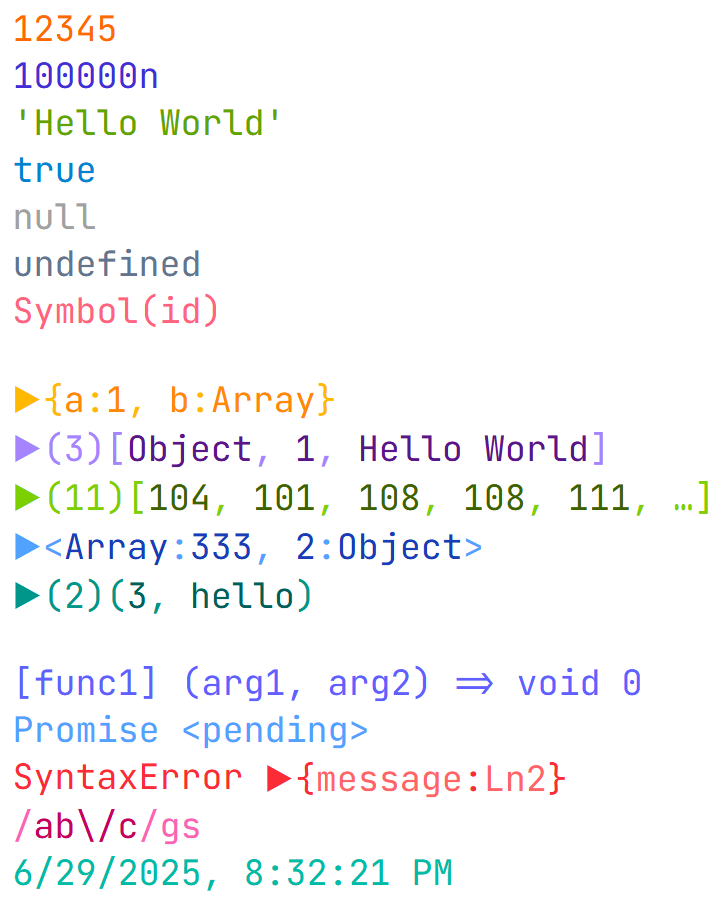
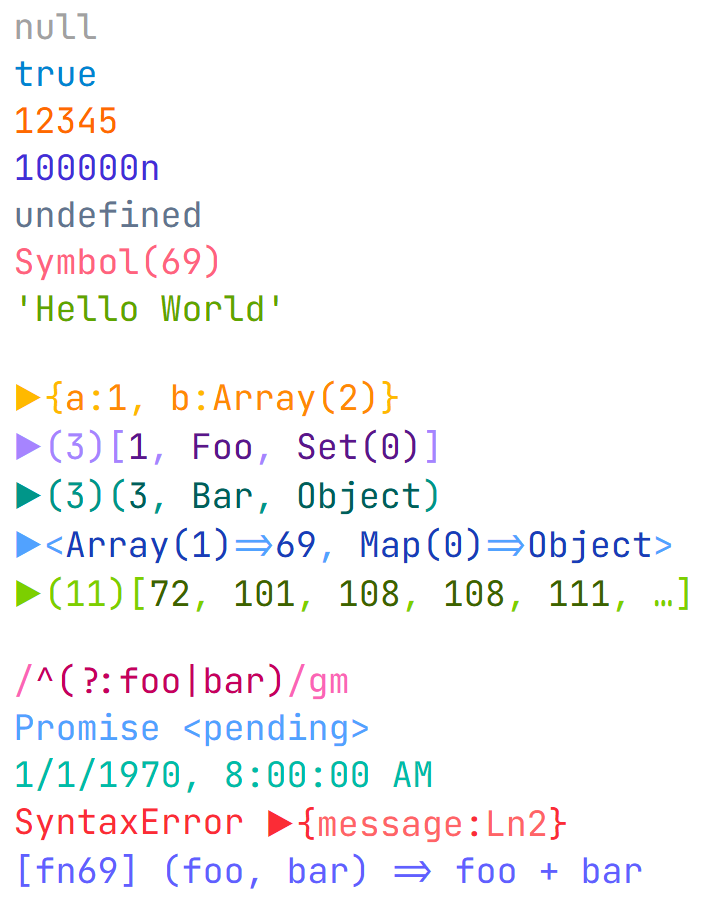
v1.2.2 list-like patches

diff --git a/src/components/templates/object-like.template.tsx b/src/components/templates/object-like.template.tsx
@@ -1,28 +1,29 @@
 import { Component, createSignal, For, Show } from "solid-js";
 import { css } from "solid-styled-components";
 import { map } from "../../modules/mapper";
-import { getPreview } from "../../utils/get-preview";
+import { preview } from "../../utils/preview";
 import { O } from "../common";
 
 export const ObjectLike: Component<{
 	entries: Iterable<[unknown, unknown]>;
 	preview: number;
 
-	bracket: string;
-	themeColor: string;
-	previewColor: string;
+	paren?: string;
+	arrow?: string;
+	pColor: string;
+	sColor: string;
 
-	collection?: boolean;
+	list?: boolean;
 }> = (props) => {
 	const entries = Array.from(props.entries);
 	const length = entries.length;
-	const empty = length === 0;
+	const isEmpty = length === 0;
 
 	const [isPreview, setPreview] = createSignal(true);
 
 	return (
-		<O color={props.themeColor}>
-			<Show when={!empty}>
+		<O color={props.pColor}>
+			<Show when={!isEmpty}>
 				<span
 					onclick={() => setPreview((preview) => !preview)}
 					class={css`
@@ -40,69 +41,94 @@ export const ObjectLike: Component<{
 				</span>
 			</Show>
 
-			<Show when={props.collection}>{`(${length.toFixed()})`}</Show>
+			<Show when={props.list}>{`(${length.toFixed()})`}</Show>
 
-			{props.bracket[0]}
+			{props.paren?.[0] ?? "{"}
 
-			<Show when={!isPreview() && !empty}>
+			{/* check what is this for */}
+			<Show when={!isPreview() && !isEmpty}>
 				<br></br>
 			</Show>
 
 			<For each={isPreview() ? entries.slice(0, props.preview) : entries}>
-				{([key, value], i) => (
-					<span
-						class={
-							isPreview()
-								? undefined
-								: css`
-										padding-left: 1em;
-									`
-						}
-					>
-						<Show when={!(isPreview() && props.collection)}>
-							<O color={props.previewColor}>
-								<Show
-									when={!isPreview()}
-									fallback={getPreview(key)}
-								>
-									{map(key)}
-								</Show>
-							</O>
-							:
-						</Show>
-
-						<O
-							color={props.previewColor}
-							class={
-								isPreview()
-									? undefined
-									: css`
-											padding-left: 0.5em;
-										`
-							}
-						>
-							<Show
-								when={!isPreview()}
-								fallback={getPreview(value)}
-							>
-								{map(value)}
-							</Show>
-						</O>
-
-						<Show when={isPreview() && i() < length - 1}>
-							{", "}
-						</Show>
-
-						<Show when={!isPreview()}>
-							<br></br>
-						</Show>
-					</span>
+				{(item, i) => (
+					<Pair
+						i={i()}
+						entry={item}
+						arrow={props.arrow}
+						isList={props.list}
+						isLast={i() === length - 1}
+						isPreview={isPreview()}
+						sColor={props.sColor}
+					></Pair>
 				)}
 			</For>
 
 			<Show when={isPreview() && length > props.preview}>{"\u2026"}</Show>
 
-			{props.bracket[1]}
+			{props.paren?.[1] ?? "}"}
 		</O>
+	);
+};
+
+const Pair: Component<{
+	i: number;
+	entry: [unknown, unknown];
+
+	arrow?: string;
+	isList?: boolean;
+	isLast: boolean;
+
+	isPreview: boolean;
+	sColor: string;
+}> = (props) => {
+	const [key, value] = props.entry;
+
+	return (
+		<span
+			class={
+				props.isPreview
+					? undefined
+					: css`
+							padding-left: 1em;
+						`
+			}
+		>
+			<Show when={!props.isPreview || !props.isList}>
+				<O color={props.sColor}>
+					<Show
+						when={props.isPreview}
+						fallback={map(key)}
+					>
+						{preview(key)}
+					</Show>
+				</O>
+				{props.arrow ?? ":"}
+			</Show>
+
+			<O
+				color={props.sColor}
+				class={
+					props.isPreview
+						? undefined
+						: css`
+								padding-left: 0.5em;
+							`
+				}
+			>
+				<Show
+					when={props.isPreview}
+					fallback={map(value)}
+				>
+					{preview(value)}
+				</Show>
+			</O>
+
+			<Show when={props.isPreview && !props.isLast}>{", "}</Show>
+
+			<Show when={!props.isPreview}>
+				<br></br>
+			</Show>
+		</span>
 	);
 };

diff --git a/src/utils/preview.ts b/src/utils/preview.ts
@@ -1,6 +1,6 @@
 /* eslint-disable @typescript-eslint/no-explicit-any */
 
-export function getPreview(value: any, collection = false): string {
+export function preview(value: any): string {
 	const type = typeof value;
 
 	if (value === null || value === undefined) {
@@ -10,11 +10,14 @@ export function getPreview(value: any, collection = false): string {
 	if (type === "object" || type === "function" || type === "symbol") {
 		const name = (value as object).constructor.name;
 
-		if (!collection || !("size" in value || "length" in value)) {
+		if (!("size" in value) && !("length" in value)) {
 			return name;
 		}
 
-		return `${name}${("size" in value ? (value as { size: number }).size : (value as { length: number }).length).toFixed()}`;
+		return `${name}(${("size" in value
+			? (value as { size: number }).size
+			: (value as { length: number }).length
+		).toFixed()})`;
 	}
 
 	return String(value);

diff --git a/src/components/derived/UintArray.tsx b/src/components/derived/UintArray.tsx
@@ -6,10 +6,10 @@ export const OUintArray: Omni<Uint8Array | Uint16Array | Uint32Array> = (props) 
 		<ObjectLike
 			entries={props.value.entries()}
 			preview={5}
-			bracket="[]"
-			themeColor="oklch(0.768 0.233 130.85)"
-			previewColor="oklch(0.453 0.124 130.933)"
-			collection
+			paren="[]"
+			pColor="oklch(0.768 0.233 130.85)"
+			sColor="oklch(0.453 0.124 130.933)"
+			list
 		></ObjectLike>
 	);
 };

diff --git a/src/components/derived/Set.tsx b/src/components/derived/Set.tsx
@@ -6,10 +6,10 @@ export const OSet: Omni<Set<unknown>> = (props) => {
 		<ObjectLike
 			entries={props.value.values().map((value, i) => [i, value])}
 			preview={5}
-			bracket="()"
-			themeColor="oklch(0.6 0.118 184.704)"
-			previewColor="oklch(0.437 0.078 188.216)"
-			collection
+			paren="()"
+			pColor="oklch(0.6 0.118 184.704)"
+			sColor="oklch(0.437 0.078 188.216)"
+			list
 		></ObjectLike>
 	);
 };

diff --git a/src/components/derived/Array.tsx b/src/components/derived/Array.tsx
@@ -6,10 +6,10 @@ export const OArray: Omni<unknown[]> = (props) => {
 		<ObjectLike
 			entries={props.value.entries()}
 			preview={5}
-			bracket="[]"
-			themeColor="oklch(0.702 0.183 293.541)"
-			previewColor="oklch(0.381 0.176 304.987)"
-			collection
+			paren="[]"
+			pColor="oklch(0.702 0.183 293.541)"
+			sColor="oklch(0.381 0.176 304.987)"
+			list
 		></ObjectLike>
 	);
 };

diff --git a/src/components/derived/Map.tsx b/src/components/derived/Map.tsx
@@ -6,9 +6,10 @@ export const OMap: Omni<Map<unknown, unknown>> = (props) => {
 		<ObjectLike
 			entries={props.value.entries()}
 			preview={5}
-			bracket="<>"
-			themeColor="oklch(0.707 0.165 254.624)"
-			previewColor="oklch(0.424 0.199 265.638)"
+			paren="<>"
+			arrow="=>"
+			pColor="oklch(0.707 0.165 254.624)"
+			sColor="oklch(0.424 0.199 265.638)"
 		></ObjectLike>
 	);
 };

diff --git a/src/components/derived/Error.tsx b/src/components/derived/Error.tsx
@@ -17,9 +17,9 @@ export const OError: Omni<Error> = (props) => {
 						: [["message", error.message]]
 				}
 				preview={2}
-				bracket="{}"
-				themeColor="oklch(0.637 0.237 25.331)"
-				previewColor="oklch(0.704 0.191 22.216)"
+				paren="{}"
+				pColor="oklch(0.637 0.237 25.331)"
+				sColor="oklch(0.704 0.191 22.216)"
 			></ObjectLike>
 		</O>
 	);

diff --git a/src/components/derived/Object.tsx b/src/components/derived/Object.tsx
@@ -6,9 +6,9 @@ export const OObject: Omni<object> = (props) => {
 		<ObjectLike
 			entries={Object.entries(props.value)}
 			preview={5}
-			bracket="{}"
-			themeColor="oklch(0.828 0.189 84.429)"
-			previewColor="oklch(0.75 0.183 55.934)"
+			paren="{}"
+			pColor="oklch(0.828 0.189 84.429)"
+			sColor="oklch(0.75 0.183 55.934)"
 		></ObjectLike>
 	);
 };
